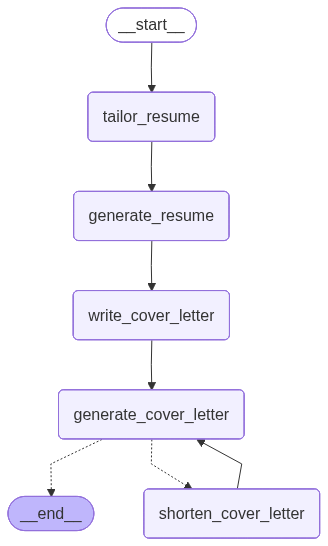
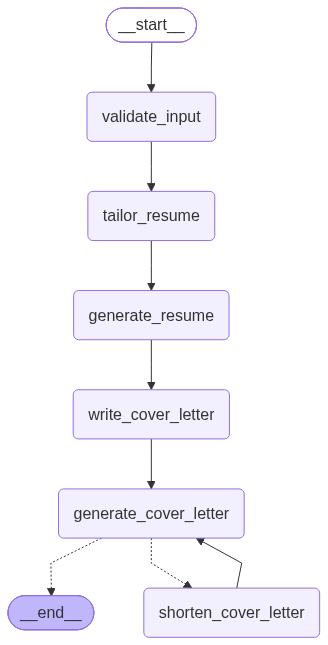
Readme fix

diff --git a/README.md b/README.md
@@ -2,7 +2,7 @@
 
 **AI-powered resume and cover letter tailoring for every job application.**
 
-FluxApply takes your resume and a job description, and generates a tailored resume and cover letter matched to that specific role — preserving your original formatting and only rewriting what actually needs to change.
+FluxApply takes your resume and a job description, and generates a tailored resume and cover letter matched to that specific role preserving your original formatting and only rewriting what actually needs to change.
 
 - **Website:** [fluxapply.me](https://www.fluxapply.me/)  
 - **Demo video:** [Watch here](https://fluxapply-public-assets.s3.ap-south-2.amazonaws.com/demo.mp4)